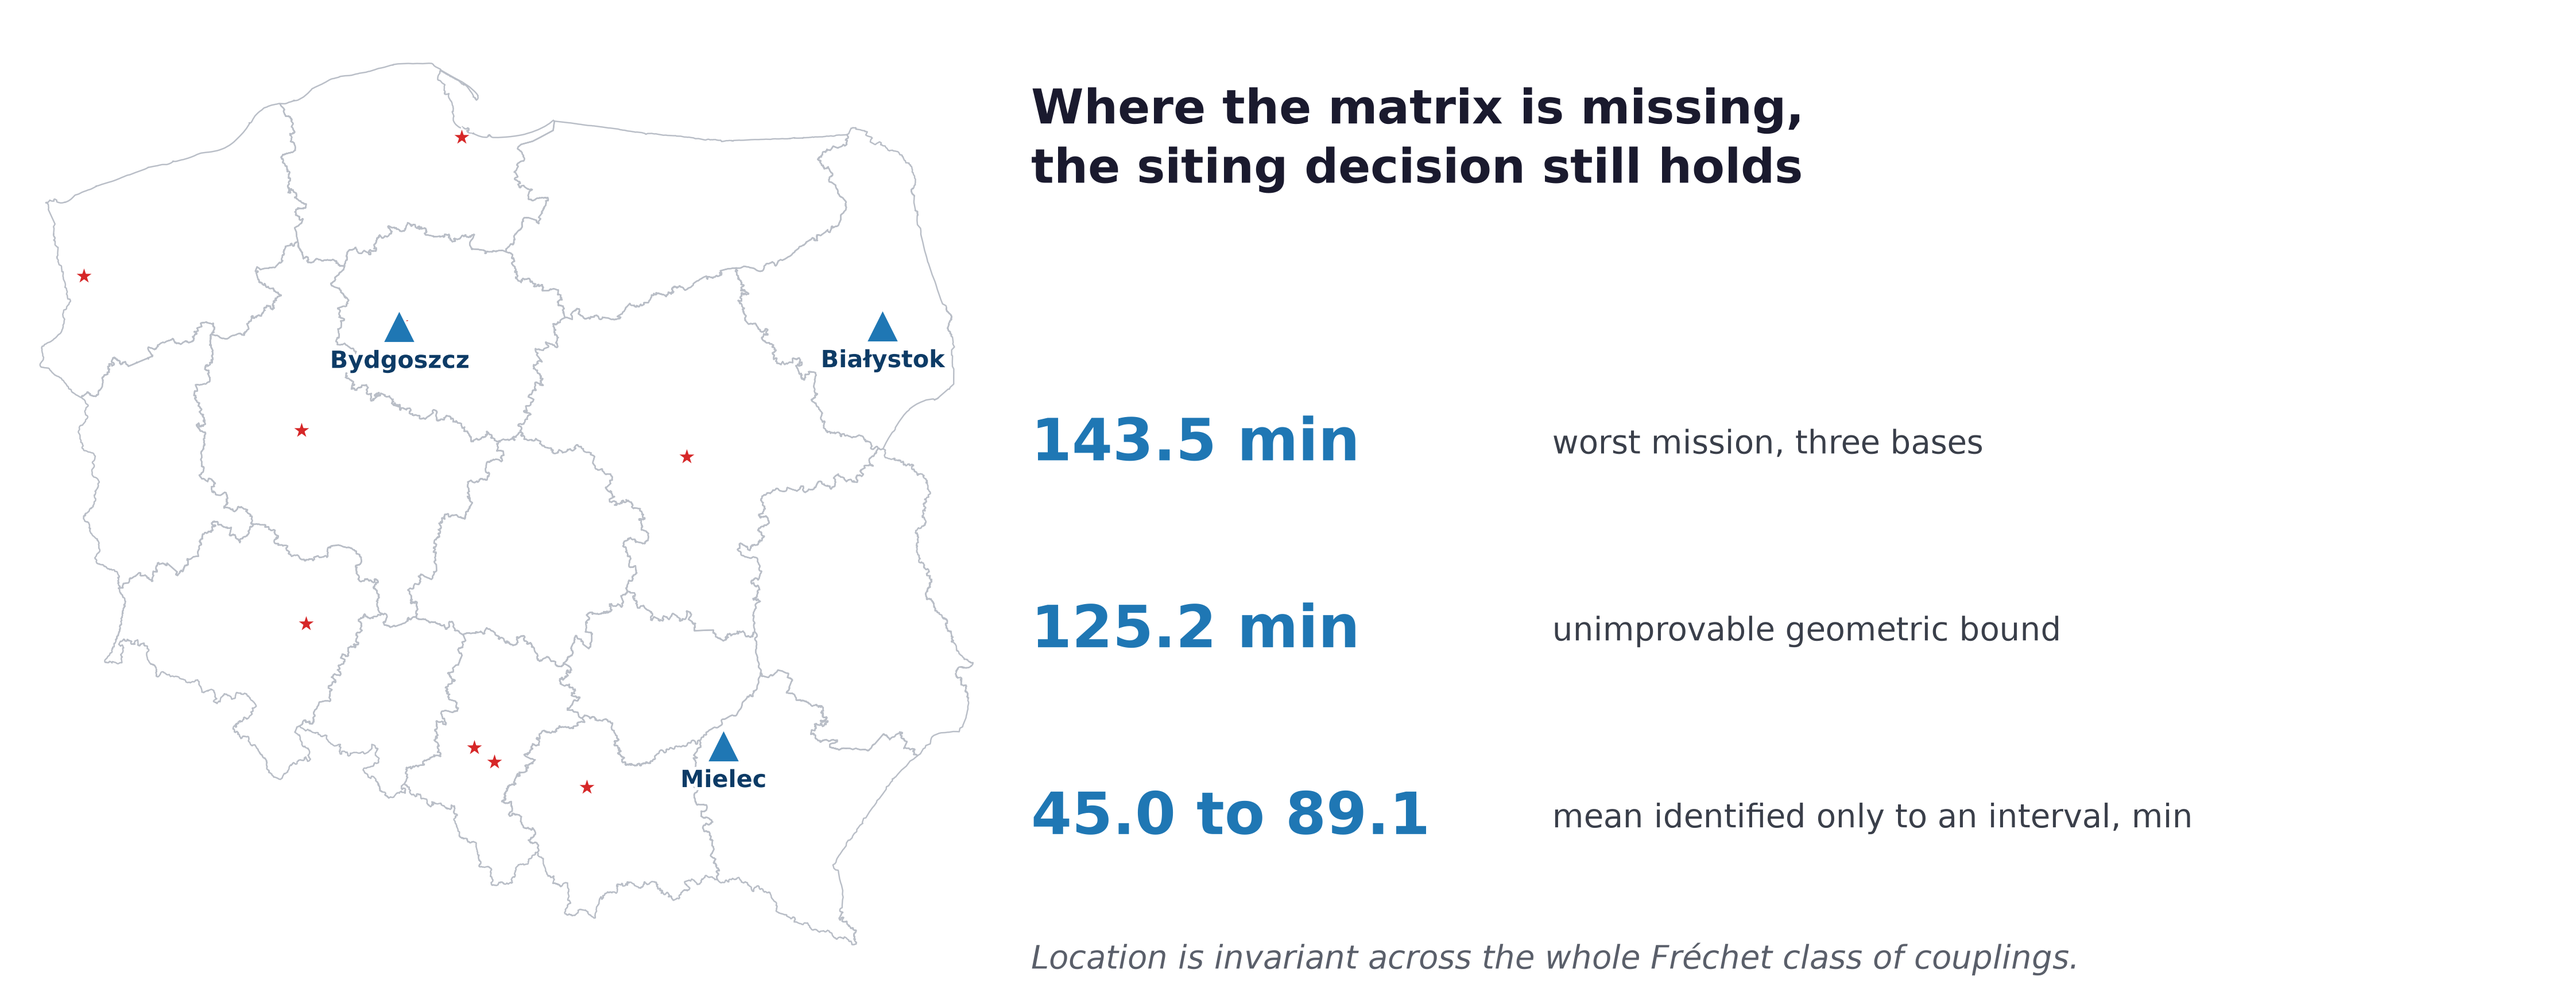
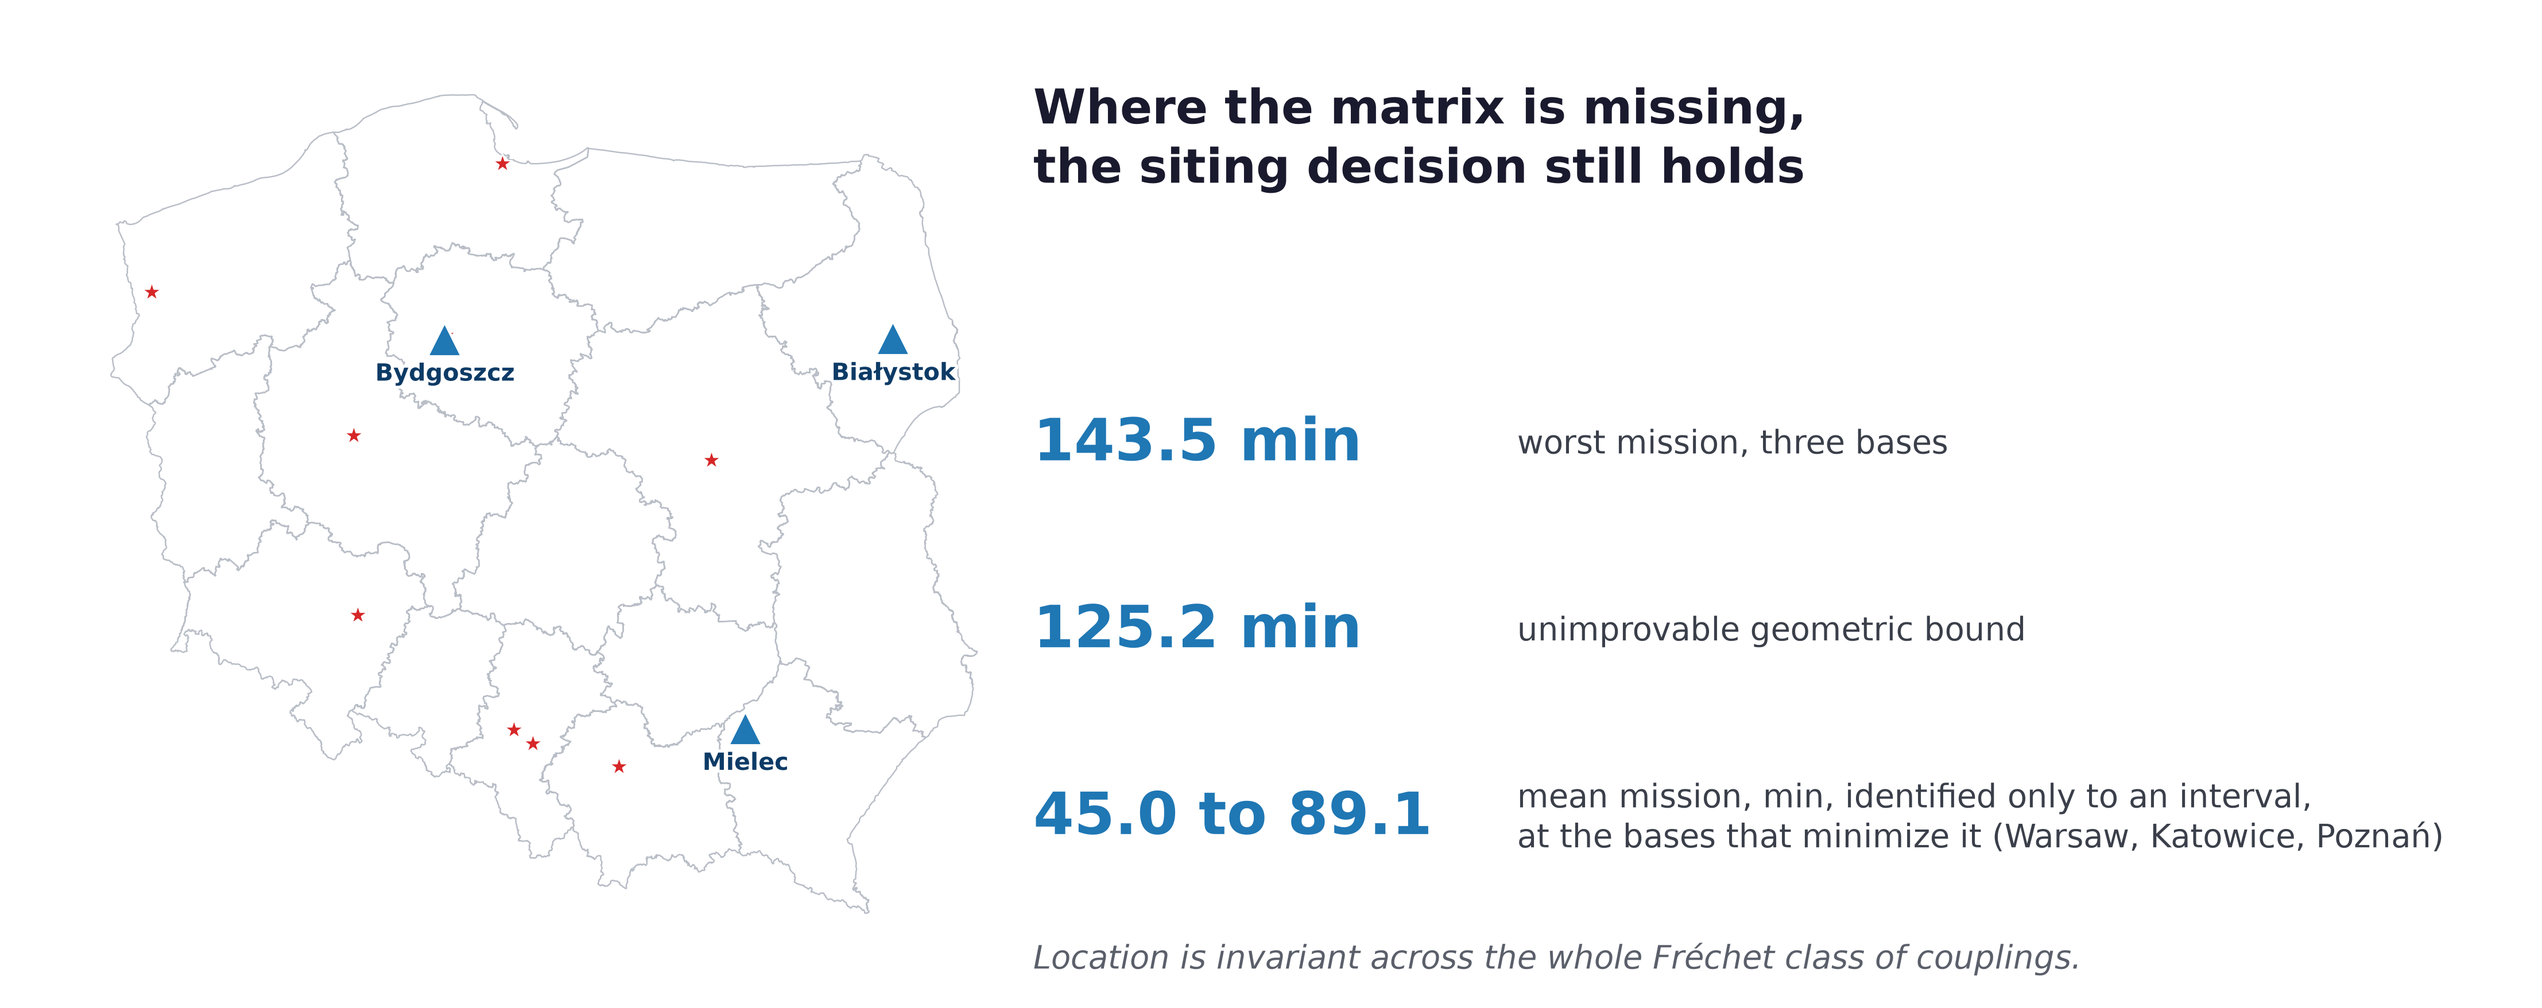
Add files via upload

diff --git a/scripts/29_graphical_abstract.py b/scripts/29_graphical_abstract.py
@@ -82,7 +82,7 @@ axt.text(0.0, 0.93, "Where the matrix is missing,\nthe siting decision still hol
          fontsize=17, weight="bold", color="#1a1a2e", va="top", linespacing=1.25)
 WIERSZE = [("143.5 min", "worst mission, three bases"),
            ("125.2 min", "unimprovable geometric bound"),
-           ("45.0 to 89.1", "mean identified only to an interval, min")]
+           ("45.0 to 89.1", "mean mission, min, identified only to an interval,\nat the bases that minimize it (Warsaw, Katowice, Poznań)")]
 # The bases and the three numbers are typed in. This check keeps them equal
 # to the results of scripts 19, 27 and 23.
 _res=_os.path.join(_REPO_DIR,"results")
@@ -92,6 +92,8 @@ if all(_os.path.exists(_os.path.join(_res,_p)) for _p in ('minimax_audit.json', 
     assert abs(json.load(open(_os.path.join(_res,'lower_bound.json'),encoding="utf-8"))["ograniczenie_min"]-125.2)<0.05
     _fr=json.load(open(_os.path.join(_res,'frechet_invariance.json'),encoding="utf-8"))
     assert round(_fr["min_min_min"],1)==45.0 and round(_fr["min_max_min"],1)==89.1, _fr
+    # The interval belongs to the bases that minimize the mean, not to the minimax bases on the map.
+    assert sorted(_fr["bazy_dro"])==["EPBC","EPKM","EPPO"], _fr["bazy_dro"]
 y = 0.56
 for duza, opis in WIERSZE:
     axt.text(0.0, y, duza, fontsize=21, weight="bold", color="#1f77b4", va="center")
@@ -107,6 +109,14 @@ plt.close()
 
 from PIL import Image
 im = Image.open(sciezka)
+# The cropped image can come out narrower than the required proportion, depending on the
+# text width in the local fonts. White margins are added left and right until it holds.
+if im.width / im.height < 1328 / 531:
+    _w = int(math.ceil(im.height * 2.52))
+    _tlo = Image.new("RGB", (_w, im.height), "white")
+    _tlo.paste(im.convert("RGB"), ((_w - im.width) // 2, 0))
+    _tlo.save(sciezka, dpi=(350, 350))
+    im = Image.open(sciezka)
 print(f"OK graphical abstract {im.size}, aspect ratio {im.width/im.height:.2f}")
 print(f"   required aspect ratio >= {1328/531:.2f}, minimum width 1328 px")
 print(f"   {'MEETS IT' if im.width/im.height >= 1328/531 and im.width >= 1328 else 'DOES NOT MEET IT'}")
